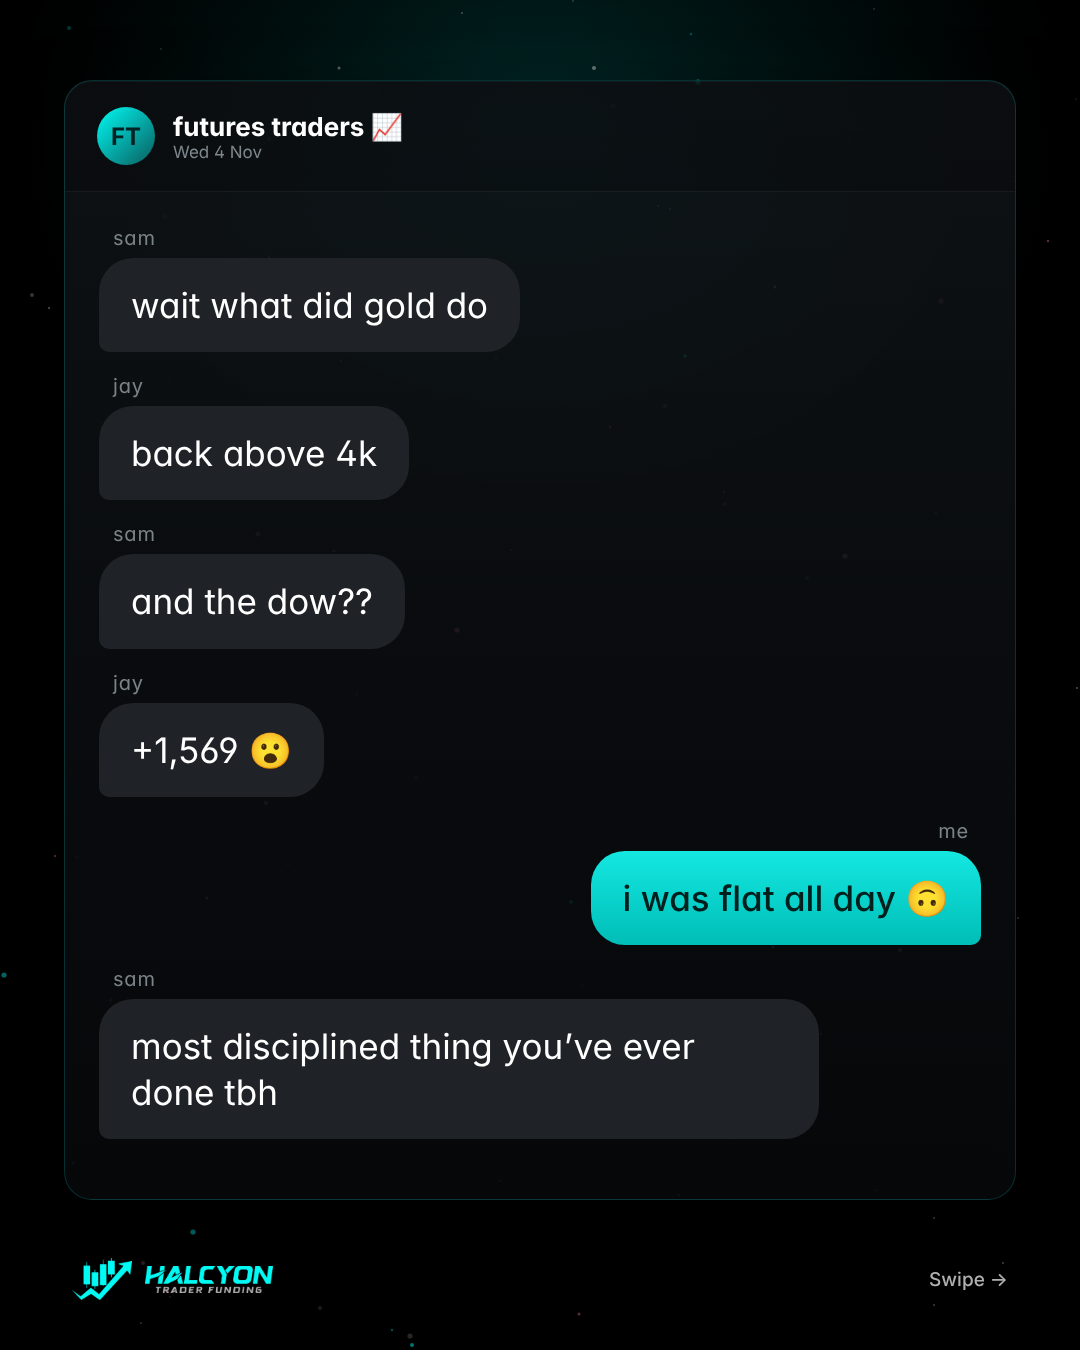
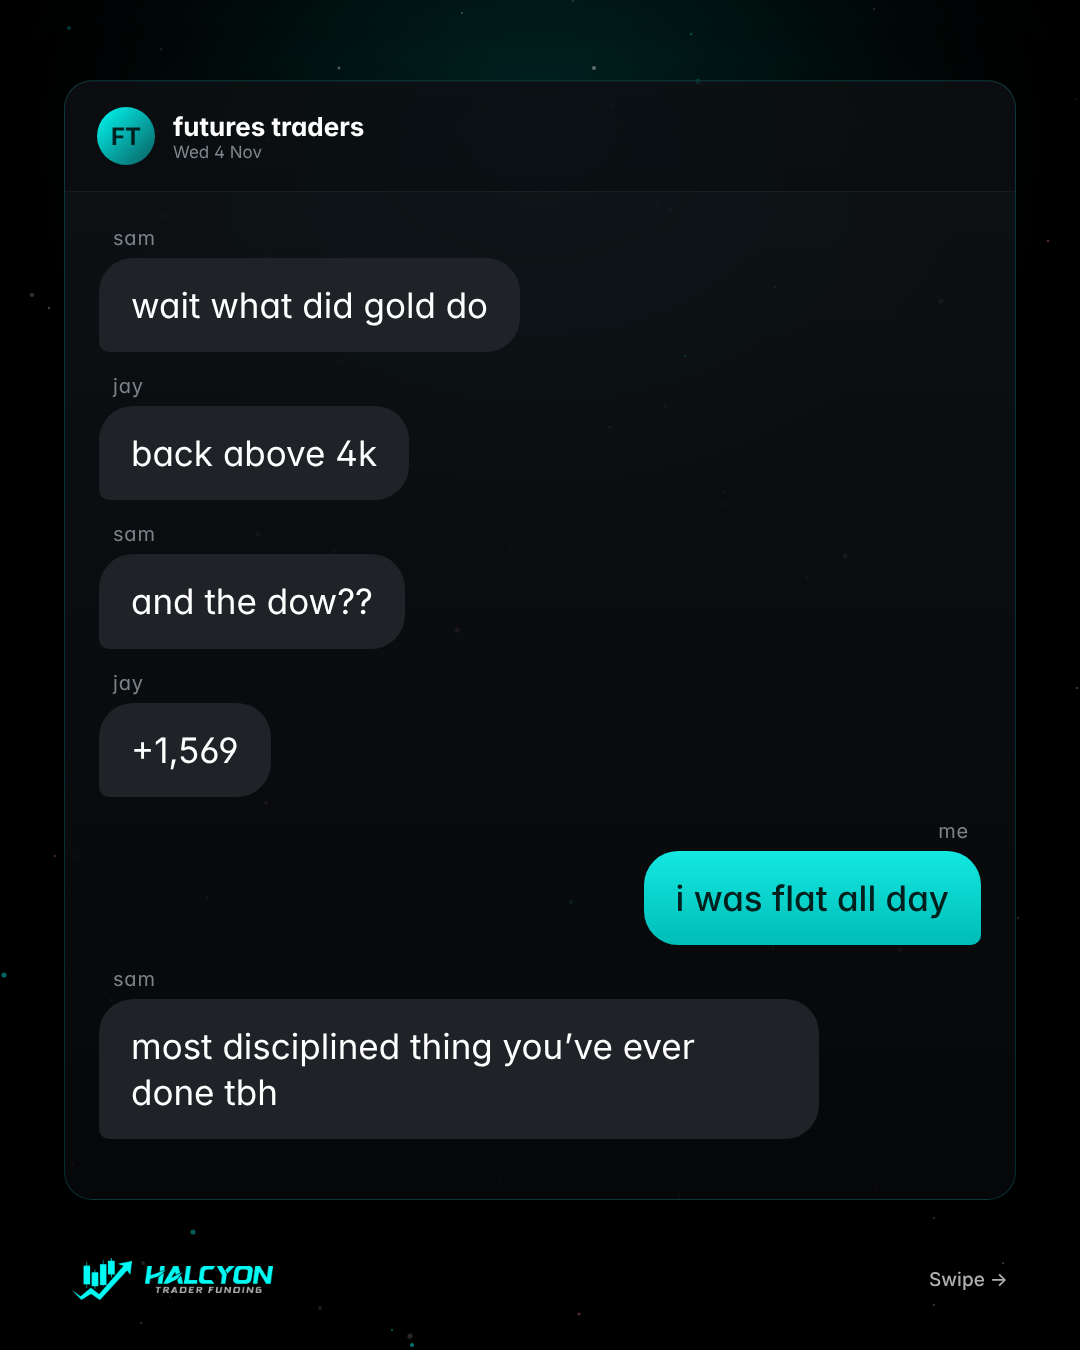
IG: no emojis on graphics
Claude-Session: https://claude.ai/code/session_014Wg4vonDNkrUksnr9PVWof

Changed region(s): [[0.55, 0.6222, 0.8861, 0.7156], [0.2139, 0.5289, 0.3056, 0.5911], [0.3361, 0.0622, 0.3667, 0.1244]]

diff --git a/source/ig/slides.py b/source/ig/slides.py
@@ -117,12 +117,12 @@ def chat(name, title, msgs, seed, left="Swipe &rarr;"):
         f'<div style="width:58px;height:58px;border-radius:50%;background:linear-gradient(135deg,#00FBF4,#0A5C5E);display:flex;align-items:center;justify-content:center;font-weight:700;font-size:24px;color:#022">FT</div>'
         f'<div><div style="font-size:26px;font-weight:700">{title}</div><div style="font-size:17px;color:#7D878C">Wed 4 Nov</div></div></div>'
         f'<div style="display:flex;flex-direction:column;gap:22px;padding:34px 34px">{"".join(rows)}</div></div>' + foot(left))
-chat("gcA_1", "futures traders 📈", [("jay", "l", "oil just dropped 8% 💀"), ("me", "r", "on a WEDNESDAY??"),
+chat("gcA_1", "futures traders", [("jay", "l", "oil just dropped 8%"), ("me", "r", "on a WEDNESDAY??"),
      ("jay", "l", "election results came in and the war-risk talk cooled off"), ("me", "r", "so the CL long i was &ldquo;holding for the weekend&rdquo;..."),
      ("jay", "l", "we don&rsquo;t talk about the CL long")], 41)
-chat("gcA_2", "futures traders 📈", [("sam", "l", "wait what did gold do"), ("jay", "l", "back above 4k"),
-     ("sam", "l", "and the dow??"), ("jay", "l", "+1,569 &#128558;"),
-     ("me", "r", "i was flat all day 🙃"), ("sam", "l", "most disciplined thing you&rsquo;ve ever done tbh")], 42)
+chat("gcA_2", "futures traders", [("sam", "l", "wait what did gold do"), ("jay", "l", "back above 4k"),
+     ("sam", "l", "and the dow??"), ("jay", "l", "+1,569"),
+     ("me", "r", "i was flat all day"), ("sam", "l", "most disciplined thing you&rsquo;ve ever done tbh")], 42)
 add("gcA_3", bg(43, "drop") + header_panel("What actually happened", 'The chat, <span class="glow">fact-checked</span>') +
     checklist([("&asymp;&minus;8.5%", "Oil fell to about $89", WN, False), ("+3.3%", "Gold back above $4,000", OK, True),
                ("+3.03%", "Dow, best post-midterm day since 1982", OK, False), ("+1.58%", "S&amp;P 500 closed at 7,689", OK, False),
@@ -325,7 +325,7 @@ meme("mmA_5", "Meme 04",
      '<div style="display:grid;grid-template-columns:1fr 1fr;gap:22px;margin:20px 54px 0">'
      '<div class="gp hot" style="padding:36px"><p class="lab">Account 1</p><div class="num glow" style="font-size:72px;margin-top:10px">LONG</div><div style="font-size:32px">2 MES</div></div>'
      '<div class="gp red" style="padding:36px"><p class="lab">Account 2</p><div class="num glowr" style="font-size:72px;margin-top:10px">SHORT</div><div style="font-size:32px">2 MES</div></div></div>'
-     '<div class="ctr" style="font-size:190px;margin-top:20px">&#129504;</div>',
+     '<div class="ctr" style="margin-top:44px"><div class="num" style="font-size:120px;line-height:1;color:#fff">Net: 0</div><div style="margin-top:18px"><span class="pill gr" style="font-size:22px">big brain move</span></div></div>',
      "<b>Hedging</b> is banned, including across accounts and micro against mini.", 75)
 add("mmA_6", bg(76, "flat") + header_panel("", 'Read the rules <span class="glow">before the chart</span>') +
     checklist([("Daily", "Flat by 4:45 PM ET", OK, True), ("Every trade", "Use a stop loss", OK, False), ("News", "No straddles", NO, False), ("Accounts", "No hedging", NO, False)], 400, h=112) +
@@ -591,7 +591,7 @@ add("wcD_5", bg(182, "flat", glow=(50, 25)) +
     "".join(f'<div class="gp {"hot" if i == 0 else ""}" style="display:flex;align-items:center;gap:22px;padding:24px 28px;border-radius:26px;margin:0 {i * 26}px;opacity:{1 - i * .18}"><div style="flex:none;width:64px;height:64px;border-radius:16px;background:#03070A;border:2px solid rgba(0,251,244,.5);display:flex;align-items:center;justify-content:center"><img src="{BRAND}logo_mark.png" style="width:44px"></div>'
             f'<div style="flex:1"><div style="display:flex;justify-content:space-between"><span style="font-size:21px;font-weight:700">Halcyon &middot; {k}</span><span style="font-size:18px;color:#7D878C">{t}</span></div><div style="font-size:23px;color:#C9D1D4;margin-top:4px">{m}</div></div></div>' for i, (k, m, t) in enumerate(notes)) +
     '</div><div class="pad ctr" style="top:1000px">'
-    '<div style="display:flex;justify-content:center;gap:14px"><span class="pill on" style="font-size:22px;padding:14px 34px">Follow</span><span class="pill" style="font-size:20px;padding:13px 26px">&#128276; Notifications</span></div></div>' + foot(None))
+    '<div style="display:flex;justify-content:center;gap:14px"><span class="pill on" style="font-size:22px;padding:14px 34px">Follow</span><span class="pill" style="font-size:20px;padding:13px 26px">Notifications</span></div></div>' + foot(None))
 
 # =====================================================================
 # V3 COVERS · real logo top-centre, FTMO-style centred titles, site HUD / wave / ticker motifs
